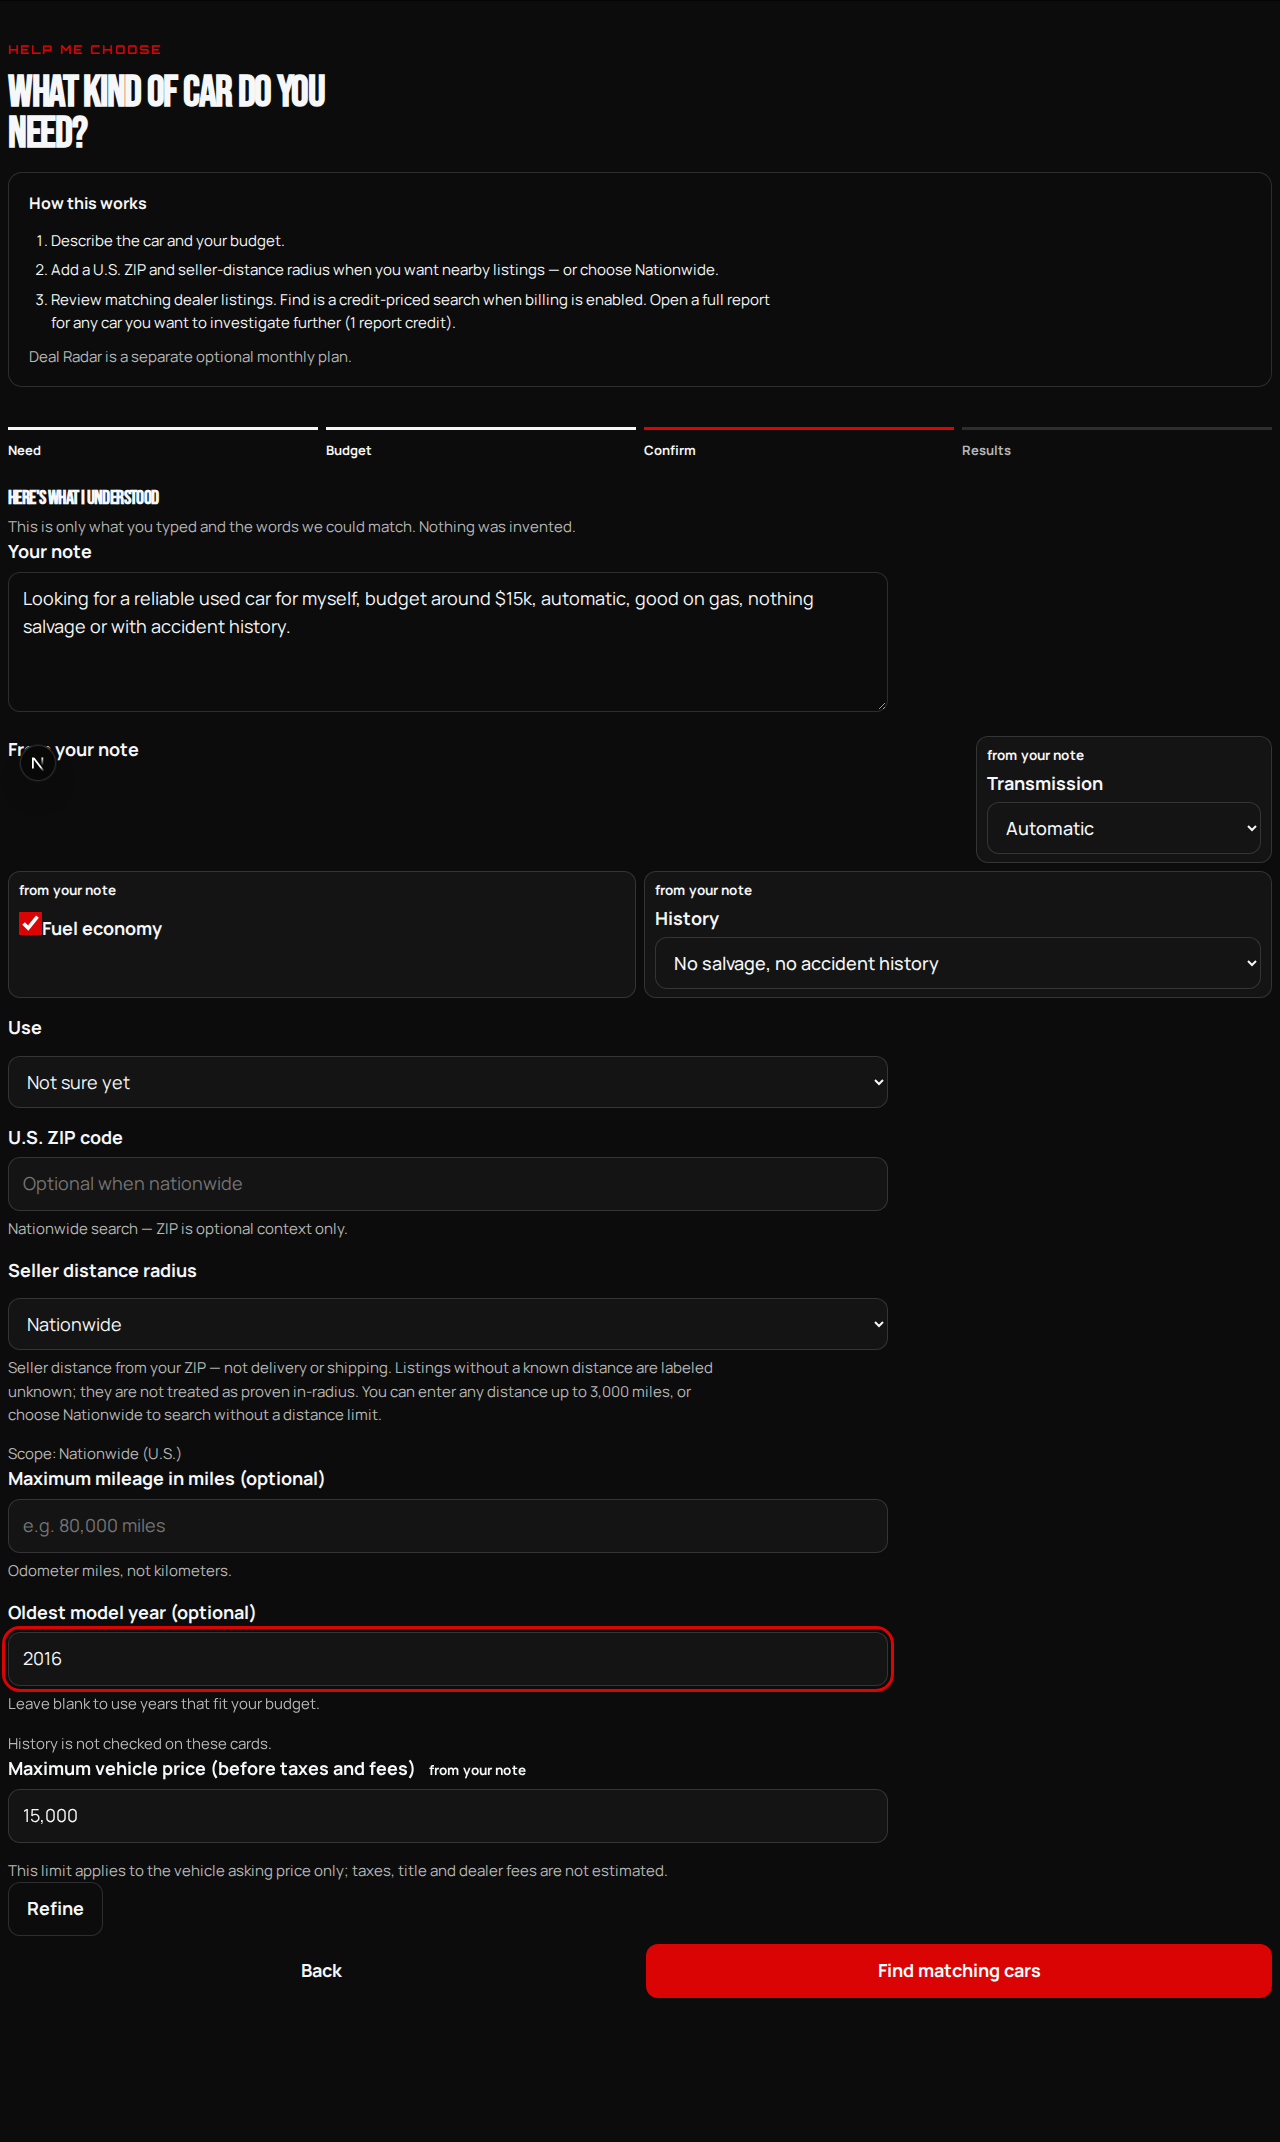
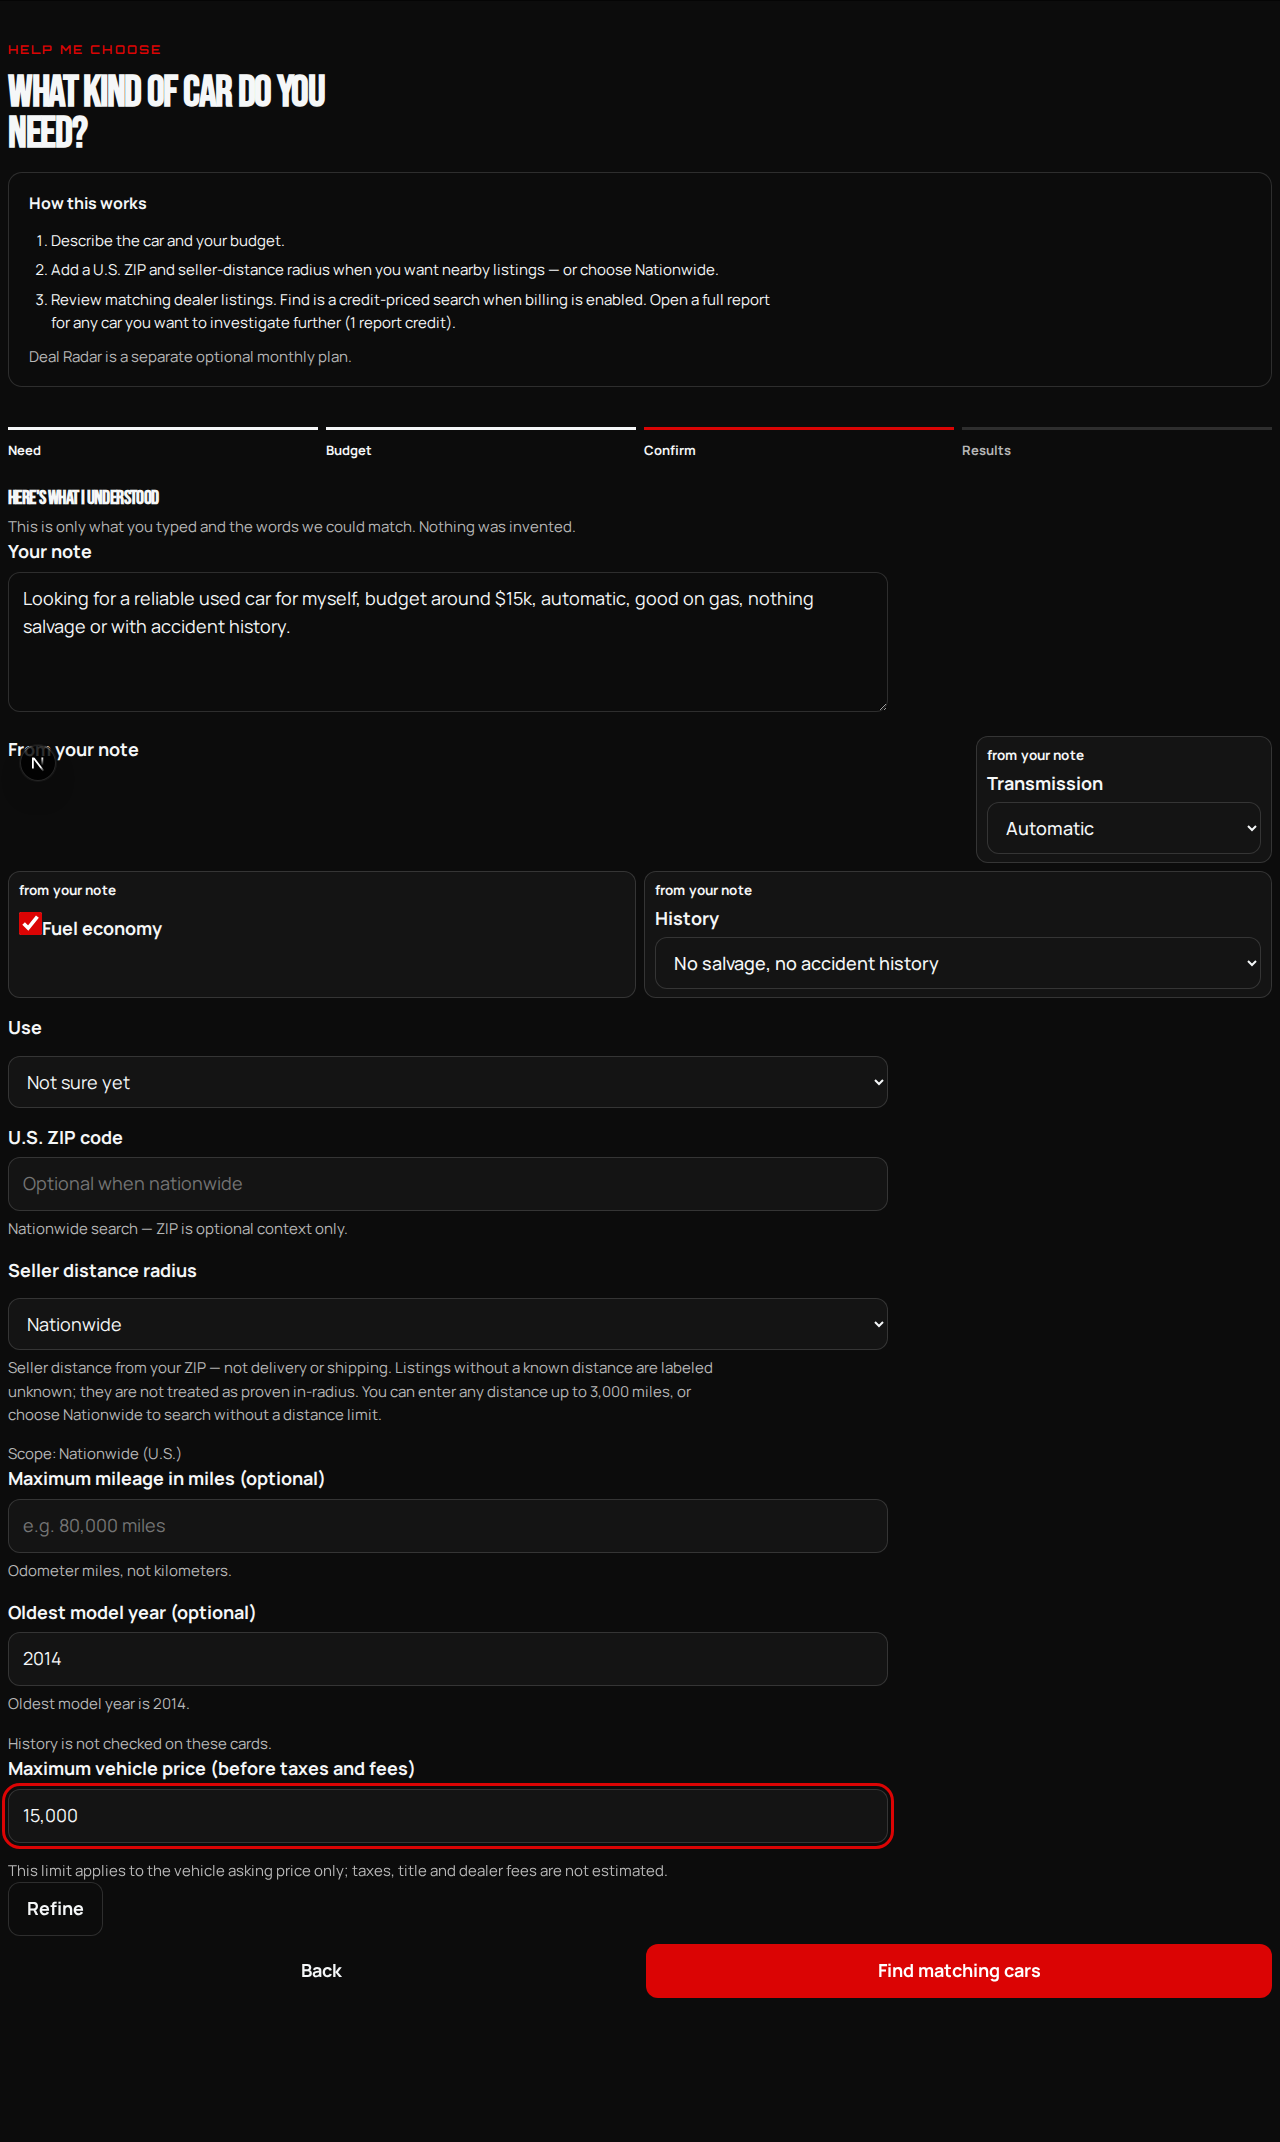
Prefill grand and range budgets, and prove the signed-in wizard.
A note that says under 20 grand or around 12-15k sets the maximum price and skips the price step. Confirm still accepts a typed year, including delete and retype, and an edited price. Playwright signs in before /find so the gate and the prefill are both exercised.

Changed region(s): [[0.0, 0.7703, 0.2188, 0.8936], [0.2188, 0.7703, 0.25, 0.8011], [0.1875, 0.8627, 0.2188, 0.8936]]

diff --git a/e2e/find-intake.spec.ts b/e2e/find-intake.spec.ts
@@ -1,8 +1,46 @@
-import { expect, test } from "@playwright/test";
+import { expect, test, type Page } from "@playwright/test";
 import { mkdir } from "node:fs/promises";
 
 const NOTE =
   "Looking for a reliable used car for myself, budget around $15k, automatic, good on gas, nothing salvage or with accident history.";
+
+async function mockSignedIn(page: Page) {
+  await page.route("**/api/account", async (route) => {
+    await route.fulfill({
+      status: 200,
+      contentType: "application/json",
+      body: JSON.stringify({
+        authenticated: true,
+        email: "buyer@example.com",
+        emailVerified: true,
+        auth: { configured: true },
+        credits: 2,
+        freeChecks: { remaining: 3, limit: 3, resetsLabel: "1 December 2026 (00:00 UTC)" },
+      }),
+    });
+  });
+}
+
+async function openHomeNote(page: Page, note: string) {
+  await page.goto("/");
+  await page.locator("#home-note").fill(note);
+  await page.getByRole("button", { name: "Find cars" }).click();
+  await expect(page).toHaveURL(/\/find\?/);
+}
+
+test("signed-out Find shows sign-in before the form", async ({ page }) => {
+  await page.route("**/api/account", async (route) => {
+    await route.fulfill({
+      status: 200,
+      contentType: "application/json",
+      body: JSON.stringify({ authenticated: false, auth: { configured: true }, credits: 0, freeChecks: null }),
+    });
+  });
+  await page.goto("/find?note=Looking%20for%20a%20reliable%20car%20around%20%2415k&mode=personal");
+  await expect(page.getByRole("heading", { name: "Sign in to continue" })).toBeVisible();
+  await expect(page.getByLabel(/maximum vehicle price/i)).toHaveCount(0);
+  await expect(page.locator("#need")).toHaveCount(0);
+});
 
 test("home note opens Find confirm with the note prefilled", async ({ page }) => {
   const blocked: string[] = [];
@@ -20,6 +58,7 @@ test("home note opens Find confirm with the note prefilled", async ({ page }) =>
   });
   await page.route("**/api/scout/**", blockPaid);
   await page.route(/\/api\/(match|need|report|stripe|credits|plans|serv)(\/|$|\?)/, blockPaid);
+  await mockSignedIn(page);
 
   await mkdir("docs/screenshots/intake", { recursive: true });
   await page.setViewportSize({ width: 1280, height: 800 });
@@ -44,6 +83,18 @@ test("home note opens Find confirm with the note prefilled", async ({ page }) =>
   await year.pressSequentially("2016", { delay: 30 });
   await expect(year).toHaveValue("2016");
   await expect(page.getByText(/you chose no year floor/i)).toHaveCount(0);
+  await year.fill("");
+  await expect(year).toHaveValue("");
+  await expect(page.getByText(/you chose no year floor/i)).toHaveCount(0);
+  await year.pressSequentially("2014", { delay: 30 });
+  await expect(year).toHaveValue("2014");
+
+  const priceOnConfirm = page.getByLabel(/maximum vehicle price/i);
+  await priceOnConfirm.fill("18000");
+  await expect(priceOnConfirm).toHaveValue("18000");
+  await priceOnConfirm.fill("15,000");
+  await expect(priceOnConfirm).toHaveValue("15,000");
+  await expect(page.getByText("from your note").first()).toBeVisible();
 
   await page.evaluate(() => {
     document.querySelectorAll<HTMLElement>(".bar, .skip").forEach((el) => {
@@ -55,7 +106,7 @@ test("home note opens Find confirm with the note prefilled", async ({ page }) =>
   await page.locator("main").screenshot({ path: "docs/screenshots/intake/confirm-1280.png" });
 
   await page.setViewportSize({ width: 390, height: 844 });
-  await expect(year).toHaveValue("2016");
+  await expect(year).toHaveValue("2014");
   const overflow = await page.evaluate(() => document.documentElement.scrollWidth - document.documentElement.clientWidth);
   expect(overflow).toBeLessThanOrEqual(1);
   await page.evaluate(() => window.scrollTo(0, 0));
@@ -90,4 +141,30 @@ test("home note opens Find confirm with the note prefilled", async ({ page }) =>
   await page.locator("main").screenshot({ path: "docs/screenshots/intake/budget-not-sure-390.png" });
 
   expect(blocked).toEqual([]);
+});
+
+test("note phrasings prefill a budget or leave the price step when none was written", async ({ page }) => {
+  await mockSignedIn(page);
+  const cases: Array<{ note: string; price: string | null }> = [
+    { note: "Looking for a reliable used car, budget around $15k.", price: "15,000" },
+    { note: "Looking for a reliable used car for 15,000 dollars.", price: "15,000" },
+    { note: "Looking for a reliable used car under 20 grand.", price: "20,000" },
+    { note: "Looking for a reliable used car around 12-15k.", price: "15,000" },
+    { note: "Looking for a reliable used car for errands.", price: null },
+  ];
+  for (const item of cases) {
+    await openHomeNote(page, item.note);
+    if (item.price == null) {
+      await expect(page.getByRole("heading", { name: /what i understood/i })).toHaveCount(0);
+      await expect(page.locator("#budget")).toBeVisible();
+      await expect(page.getByRole("checkbox", { name: /not sure yet/i })).toBeVisible();
+      continue;
+    }
+    await expect(page.getByRole("heading", { name: /what i understood/i })).toBeVisible();
+    await expect(page.locator(".progress .is-current")).toHaveText("Confirm");
+    await expect(page.getByLabel(/maximum vehicle price/i)).toHaveValue(item.price);
+    await expect(page.getByText("from your note").first()).toBeVisible();
+    await expect(page.getByRole("checkbox", { name: /not sure yet/i })).toHaveCount(0);
+    await expect(page.getByText(/oldest model year you will consider/i)).toHaveCount(0);
+  }
 });

diff --git a/src/domain/note-intake.ts b/src/domain/note-intake.ts
@@ -49,6 +49,24 @@ function moneyValue(raw: string, k: boolean): number | null {
   return value;
 }
 
+function grandValue(raw: string): number | null {
+  const base = Number(raw.replace(/,/g, ""));
+  if (!Number.isFinite(base) || base <= 0) return null;
+  const value = Math.round(base * 1000);
+  if (value < 1000 || value > 250_000) return null;
+  return value;
+}
+
+/** "12-15k" means 12,000–15,000. The price field is a maximum, so the high end is used. */
+function rangeEnd(raw: string, own: string, other: string): number | null {
+  if (own === "grand") return grandValue(raw);
+  if (own === "k") return moneyValue(raw, true);
+  if ((other === "k" || other === "grand") && Number(raw.replace(/,/g, "")) < 1000) {
+    return other === "grand" ? grandValue(raw) : moneyValue(raw, true);
+  }
+  return moneyValue(raw, false);
+}
+
 function followedByMiles(text: string, end: number): boolean {
   return /^\s*(?:miles|mi)\b/i.test(text.slice(end));
 }
@@ -117,6 +135,31 @@ export function budgetFromText(text: string, now = new Date()): number | null {
     const k = Boolean(match[4]);
     const end = (match.index ?? 0) + match[0].length;
     consider(match.index ?? 0, raw, k, end, { dollar: Boolean(match[2]), keyword: match[1] ?? "" });
+  }
+
+  const range = new RegExp(
+    String.raw`\b(?:around|about|between|budget|roughly)\b[^$\n]{0,24}?\$?\s*(${MONEY_NUMBER})\s*(k|grand)?\s*(?:-|–|—|to|and)\s*\$?\s*(${MONEY_NUMBER})\s*(k|grand)?\b`,
+    "gi",
+  );
+  for (const match of text.matchAll(range)) {
+    const end = (match.index ?? 0) + match[0].length;
+    if (followedByMiles(text, end)) continue;
+    const leftSuffix = (match[2] ?? "").toLowerCase();
+    const rightSuffix = (match[4] ?? "").toLowerCase();
+    const left = rangeEnd(match[1] ?? "", leftSuffix, rightSuffix);
+    const right = rangeEnd(match[3] ?? "", rightSuffix, leftSuffix);
+    const usd = Math.max(left ?? 0, right ?? 0);
+    if (usd >= 1000) hits.push({ index: match.index ?? 0, usd });
+  }
+
+  const grand = new RegExp(
+    String.raw`\b(?:under|below|budget|around|about|approximately|roughly|less than|up to)?\s*\$?\s*(${MONEY_NUMBER})\s*grand\b`,
+    "gi",
+  );
+  for (const match of text.matchAll(grand)) {
+    const usd = grandValue(match[1] ?? "");
+    if (usd == null) continue;
+    hits.push({ index: match.index ?? 0, usd });
   }
 
   const tilde = new RegExp(String.raw`~\s*\$?\s*(${MONEY_NUMBER})\s*(k)?\b`, "gi");

diff --git a/src/domain/note-intake.test.ts b/src/domain/note-intake.test.ts
@@ -17,6 +17,13 @@ describe("budget phrases the old regex dropped", () => {
     expect(budgetFromText("around $15,000")).toBe(15_000);
     expect(budgetFromText("~$15k")).toBe(15_000);
     expect(budgetFromText("Need a reliable family car under $18,000")).toBe(18_000);
+    expect(budgetFromText("budget around $15k")).toBe(15_000);
+    expect(budgetFromText("under 20 grand")).toBe(20_000);
+    expect(budgetFromText("around 12-15k")).toBe(15_000);
+    expect(budgetFromText("between $12,000 and $15,000")).toBe(15_000);
+    expect(budgetFromText("Looking for a reliable used car for 15,000 dollars.")).toBe(15_000);
+    expect(budgetFromText("Looking for a reliable used car under 20 grand.")).toBe(20_000);
+    expect(budgetFromText("Looking for a reliable used car around 12-15k.")).toBe(15_000);
   });
 
   it("does not invent a budget or treat miles and model years as prices", () => {
@@ -63,6 +70,24 @@ describe("owner find note", () => {
     expect(need.historyPreference).toBeNull();
     expect(followUps(need).map((item) => item.id)).toEqual(expect.arrayContaining(["age", "condition"]));
     expect(findStageAfterNote(need)).toBe("follow");
+  });
+
+  it("does not ask the price again for grand, comma, and range budgets", () => {
+    for (const [note, usd] of [
+      ["Looking for a reliable used car under 20 grand.", 20_000],
+      ["Looking for a reliable used car for 15,000 dollars.", 15_000],
+      ["Looking for a reliable used car around 12-15k.", 15_000],
+    ] as const) {
+      const need = explicitNeedFromText(note, "personal");
+      expect(need.budgetUsd).toBe(usd);
+      expect(need.budgetKnown).toBe(true);
+      expect(need.milesMax).toBeNull();
+      expect(followUps(need).map((item) => item.id)).not.toContain("cash");
+      expect(findStageAfterNote(need)).toBe("confirm");
+    }
+    const open = explicitNeedFromText("Looking for a reliable used car for errands.", "personal");
+    expect(open.budgetUsd).toBeNull();
+    expect(findStageAfterNote(open)).toBe("budget");
   });
 
   it("prefills body, year, mileage, ZIP, and radius when they are written", () => {

diff --git a/src/components/AssistantFlow.tsx b/src/components/AssistantFlow.tsx
@@ -1826,6 +1826,9 @@ function AssistantFlow({
             onCommit={(next) => {
               setNeed({ ...need, yearMin: next.yearMin, yearBandResolved: next.yearBandResolved });
               setYearMin(next.yearMin != null ? String(next.yearMin) : "");
+              if (noteMarks?.year && next.yearMin !== need.yearMin) {
+                setNoteMarks({ ...noteMarks, year: false });
+              }
             }}
           />
           {need.conditionPriority === "inspection_first" ? <p className="hint">{CONDITION_HINT}</p> : null}
@@ -1850,7 +1853,10 @@ function AssistantFlow({
             onCommit={(next) => {
               setNeed({ ...need, budgetUsd: next.budgetUsd, budgetKnown: next.budgetKnown });
               setBudget(next.budgetUsd != null ? next.budgetUsd.toLocaleString("en-US") : "");
-              setBudgetKnown(true);
+              setBudgetKnown(next.budgetKnown);
+              if (noteMarks?.budget && next.budgetUsd !== need.budgetUsd) {
+                setNoteMarks({ ...noteMarks, budget: false });
+              }
             }}
           />
           {need.mode === "personal" ? <p className="hint">This limit applies to the vehicle asking price only; taxes, title and dealer fees are not estimated.</p> : null}
